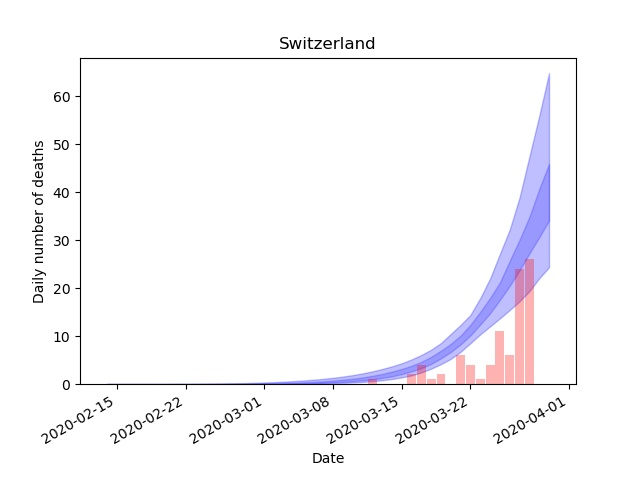
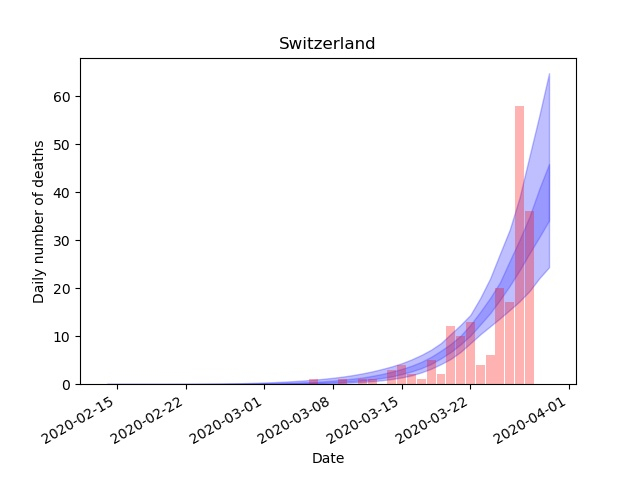
minor fixes

Changed region(s): [[0.5312, 0.5938, 0.8125, 0.8125], [0.7812, 0.2188, 0.8438, 0.5625], [0.4688, 0.7812, 0.5, 0.8125]]

diff --git a/forecast_plots.py b/forecast_plots.py
@@ -11,12 +11,16 @@ import numpy as np
 import datetime
 
 # this is for Europe
-#start_day_of_confirmed ='12-31-2019'
+start_day_of_confirmed ='12-31-2019'
 # this is for states
-start_day_of_confirmed = '01-22-2020'
+#start_day_of_confirmed = '01-22-2020'
+
+#Todo - save in folder
+#todo - auto change to europe/us
 
 # input here variables for different plotting options
 base_model = True  # True for prediction/E_deaths, False for prediction0/E_deaths0
+# for europe matches with condition True
 last_day_to_plot = '03-31-2020'  # predict to this date
 
 
@@ -43,8 +47,10 @@ def plot_forecasts_wo_dates_quantiles(row2_5, row25, row50, row75, row97_5, conf
 
     barplot_missing_values = np.zeros(days_to_predict - np.shape(confirmed_cases)[0])
     barplot_values = list(confirmed_cases)+list(barplot_missing_values)
-
+    #print(barplot_values)
     ticks = date_list
+    #print(row50)
+
     y1_upper50 = np.asarray(row75)
     y1_lower50 = np.asarray(row25)
     y1_upper25 = np.asarray(row97_5)
@@ -71,8 +77,7 @@ def plot_forecasts_wo_dates_quantiles(row2_5, row25, row50, row75, row97_5, conf
 
     if save_image:
         name = str(metric)+str(dict_of_eu_geog[num_of_country])
-        fig.savefig('./results/plots/usa/{}.jpg'.format(name))
-        #plt.show()
+        fig.savefig('./results/plots/europe/{}.jpg'.format(name))
         fig.clf()
     else:
         plt.show()
@@ -122,17 +127,18 @@ def read_true_cases_europe(plot_choice, num_of_country, dict_of_start_dates, dic
     0 for infections forecast
     '''
     if plot_choice == 0:
-        filepath = r"D:\JHU\corona\npi-model\npi-model\data\COVID-19-up-to-date-cases-clean.csv"
+        filepath = "./data/COVID-19-up-to-date-cases-clean.csv"
     else:
-        filepath = r"D:\JHU\corona\npi-model\npi-model\data\COVID-19-up-to-date-deaths-clean.csv"
+        filepath = "./data/COVID-19-up-to-date-deaths-clean.csv"
 
     df = pd.read_csv(filepath, delimiter=',',header=None)
 
     confirmed_start_date = datetime.datetime.strptime(start_day_of_confirmed, '%m-%d-%Y')
     forecast_start_date = datetime.datetime.strptime(dict_of_start_dates[num_of_country], '%m-%d-%Y')
     diff = (forecast_start_date - confirmed_start_date).days + 1
+    print("forecast start date", forecast_start_date)
+    confirmed_cases = list(df.iloc[num_of_country, diff:])
 
-    confirmed_cases = df.iloc[num_of_country-1, diff:]
     return confirmed_cases
 
 
@@ -153,7 +159,6 @@ def read_true_cases_us(plot_choice, num_of_country,dict_of_start_dates,dict_of_e
 
     confirmed_cases = list(df.loc[fips][diff:])
     county_name = df.loc[fips][0]
-    print(confirmed_cases)
     return confirmed_cases, county_name
 
 
@@ -192,9 +197,9 @@ def make_all_eu_plots():
     start_day_of_confirmed ='12-31-2019'  # this will be different for US and Europe
 
     for plot_choice in range(0,2):
-        print(plot_choice)
+        print("plot choice", plot_choice)
         for num_of_country in dict_of_eu_geog.keys():
-            print(num_of_country)
+            print("num of country", num_of_country)
             confirmed_cases = read_true_cases_europe(plot_choice, num_of_country, dict_of_start_dates, dict_of_eu_geog)
             plot_daily_infections_num(path, confirmed_cases, "", plot_choice, num_of_country, dict_of_start_dates, dict_of_eu_geog)
     return
@@ -202,9 +207,9 @@ def make_all_eu_plots():
 
 def main():
     # This is for USA
-    make_all_us_plots()
+    #make_all_us_plots()
     # This is for Europe
-    #make_all_eu_plots()
+    make_all_eu_plots()
 
 
 if __name__ == '__main__':
